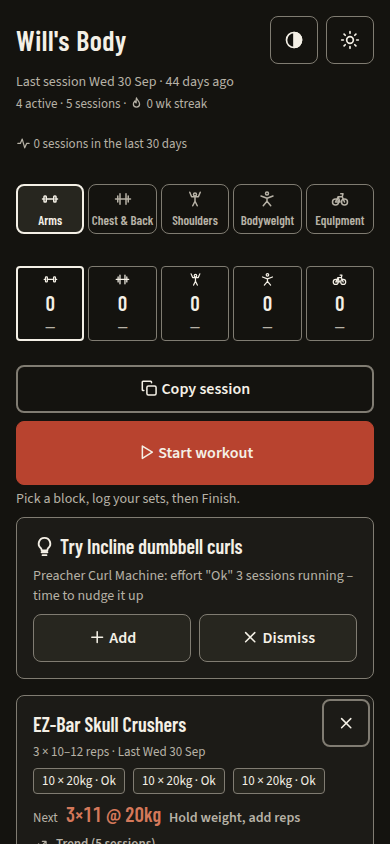
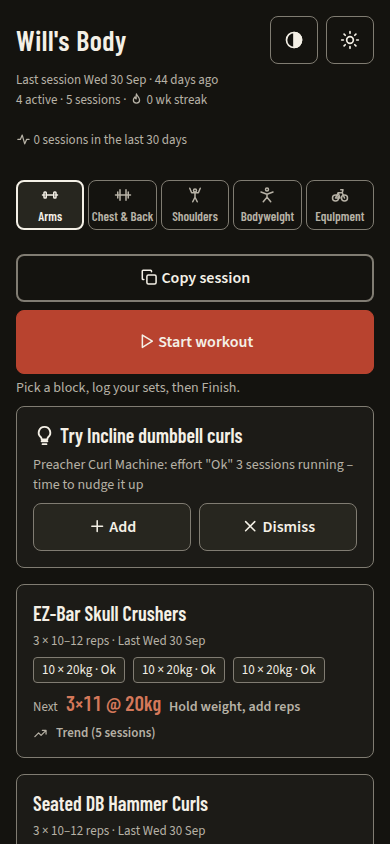
fix: pin the desktop rest timer and match the matte mocks
Keep the timer on screen at the bottom of the wide logger pane, and hide an empty week strip, the logging sets stepper, and deactivate controls that are not on the selected card.

diff --git a/styles.css b/styles.css
@@ -74,7 +74,7 @@ header{padding:calc(16px + env(safe-area-inset-top, 0px)) 16px 0}
 .brand{display:flex;align-items:center;justify-content:space-between;gap:16px;min-height:48px}
 h1{margin:0;font-size:28px;line-height:32px;letter-spacing:.02em;color:var(--txt)}
 .tools{display:flex;gap:8px;flex:none}
-.meta{margin:8px 0 0;color:var(--mut);font-size:14px;line-height:20px;font-weight:400}
+.meta,#weekline{margin:8px 0 0;color:var(--mut);font-size:13px;line-height:16px;font-weight:400}
 .subline{display:flex;flex-wrap:wrap;gap:8px;align-items:center;margin-top:4px;font-size:13px;line-height:16px}
 #streak{color:var(--mut);font-size:13px;line-height:16px}
 #stats{
@@ -129,7 +129,7 @@ button.danger{background:var(--danger);color:var(--on-acc);border:1px solid var(
 .card.ex.sel{border:2px solid var(--txt)}
 .exwrap{position:relative;margin:0 0 16px}
 .exwrap .deact{position:absolute;top:4px;right:4px;z-index:1}
-.card.ex .title{padding-right:48px}
+.exwrap.has-deact .card.ex .title{padding-right:48px}
 .mut{color:var(--mut);font-size:13px;line-height:16px;font-weight:400}
 .help{color:var(--mut);font-size:14px;line-height:20px;margin:4px 0 8px}
 .sugg .mut,.suggnote,.note14{font-size:14px;line-height:20px;color:var(--mut)}
@@ -197,7 +197,7 @@ button.danger{background:var(--danger);color:var(--on-acc);border:1px solid var(
 }
 .sethead span:nth-child(n+3){text-align:center}
 .setrow{min-height:56px;padding:4px 8px;border-radius:8px;border:2px solid transparent}
-.setrow.cur{background:var(--raised)}
+.setrow.cur{background:var(--raised);border:2px solid var(--txt)}
 .sn{font-size:20px;line-height:24px;text-align:center;color:var(--txt)}
 .prev{font-size:20px;line-height:24px;text-align:right;color:var(--mut);min-width:0}
 .setrow .cell{font-size:20px;line-height:24px;text-align:center;color:var(--txt)}
@@ -208,7 +208,7 @@ button.danger{background:var(--danger);color:var(--on-acc);border:1px solid var(
   font-size:20px;line-height:24px;-moz-appearance:textfield;appearance:textfield;
 }
 .setrow .step-in::-webkit-outer-spin-button,.setrow .step-in::-webkit-inner-spin-button{-webkit-appearance:none;margin:0}
-.setrow .step-in.cur{border:2px solid var(--txt)}
+.setrow .step-in.cur{border:2px solid var(--txt);background:var(--bg)}
 .pend{display:block;width:16px;height:2px;background:var(--mut);border-radius:1px;margin-inline:auto}
 .tick{
   width:48px;height:48px;min-width:48px;min-height:48px;padding:0;border-radius:8px;
@@ -274,7 +274,7 @@ details summary,.trend summary{min-height:48px;display:flex;align-items:center;c
 }
 .timer .count{font-size:44px;line-height:48px;color:var(--txt);min-width:2ch}
 .timer label{flex:1;min-width:0;font-size:13px;line-height:16px;font-weight:600;color:var(--mut)}
-.timer input[type=range]{width:100%;height:48px;margin:0}
+.timer input[type=range]{width:100%;height:16px;margin:0}
 .timer .adj{display:none}
 .timer .pin{min-width:48px}
 .timer.float{
@@ -319,7 +319,18 @@ input[type=date],input[type=file],input[type=text],input[type=number]{font-size:
 .libcard select{font-size:16px}
 .libcard select{min-height:48px}
 .lib-list .row button{flex:0 0 auto}
-input[type=range],input[type=checkbox]{accent-color:var(--acc)}
+input[type=checkbox]{accent-color:var(--acc)}
+#timer input[type=range]{
+  -webkit-appearance:none;appearance:none;accent-color:var(--mut);
+  width:100%;height:16px;margin:0;background:transparent;border:0;padding:0;
+}
+#timer input[type=range]::-webkit-slider-runnable-track{height:8px;background:var(--mut);border-radius:4px}
+#timer input[type=range]::-webkit-slider-thumb{
+  -webkit-appearance:none;appearance:none;width:16px;height:16px;margin-top:-4px;
+  background:var(--txt);border:0;border-radius:8px;
+}
+#timer input[type=range]::-moz-range-track{height:8px;background:var(--mut);border:0;border-radius:4px}
+#timer input[type=range]::-moz-range-thumb{width:16px;height:16px;background:var(--txt);border:0;border-radius:8px}
 
 .toasts{
   position:fixed;left:50%;transform:translateX(-50%);
@@ -376,11 +387,16 @@ body.logging main{padding-top:calc(16px + env(safe-area-inset-top, 0px))}
   body.wide nav{position:static;padding-top:16px}
   body.wide #pane{
     grid-column:2;grid-row:1 / span 6;align-self:start;position:sticky;top:24px;
-    display:flex;flex-direction:column;gap:16px;min-width:0;max-height:calc(100vh - 48px);overflow:auto;
-    background:var(--card);border:1px solid var(--line);border-radius:8px;padding:0 16px 16px;
+    display:flex;flex-direction:column;gap:0;min-width:0;
+    height:calc(100vh - 48px);max-height:calc(100vh - 48px);overflow:hidden;
+    background:var(--card);border:1px solid var(--line);border-radius:8px;padding:0;
   }
+  body.wide #pane .pane-scroll{flex:1;min-height:0;overflow:auto;padding:0 16px 16px}
   body.wide #pane .card{background:transparent}
-  body.wide #timer{position:static;border:0;border-top:1px solid var(--line);border-radius:0;padding:16px 0 0;margin-top:auto}
+  body.wide #timer{
+    position:static;flex:none;margin:0;border:0;border-top:1px solid var(--line);border-radius:0;
+    padding:16px;background:var(--card);
+  }
   body.wide #timer.float{
     position:fixed;right:calc(16px + env(safe-area-inset-right, 0px));
     bottom:calc(16px + env(safe-area-inset-bottom, 0px));

diff --git a/app.js b/app.js
@@ -170,7 +170,6 @@ function loggerInner(ex, T){
     ${flags.map(f=>`<div class="cue">${ic('alert')} ${esc(f.reason)}</div>`).join('')}
     ${rl?`<button type="button" class="ghost lastbtn" data-act="fill" data-ex="${esc(ex.id)}">${ic('undo')} Same as last time (${esc(fmtDate(rl.date))}): ${fmtPlan(rl,ex.unit)}</button>`:''}
     ${setTable(ex,d,last)}
-    ${stepper(ex.id,'targetSets','Sets',d.targetSets)}
     <div class="eff">${['Ok','Good','Tough'].map(e=>`<button type="button" class="${d.effort===e?'on':''}" aria-pressed="${d.effort===e}" data-act="eff" data-ex="${esc(ex.id)}" data-v="${e}">${e}</button>`).join('')}</div>
     <button type="button" class="primary" data-act="log" data-ex="${esc(ex.id)}">Log set ${Math.min(d.sets.length+1,99)} of ${esc(d.targetSets)}</button>
     <div class="sets">${fmtSets(d.sets,ex.unit)}${d.sets.length?`<button type="button" data-act="undo" data-ex="${esc(ex.id)}">${ic('undo')} Undo</button>`:''}</div>
@@ -186,7 +185,7 @@ function compactHTML(ex, T, selected){
   const t=Rules.trendSeries(ex,T.sessions), flags=Rules.detectPlateaus(ex,T.sessions);
   const range=ex.repMin&&ex.repMin!==ex.repMax?esc(ex.repMin)+'\u2013'+esc(ex.repMax):esc(ex.targetReps);
   const cue=flags[0]?`<div class="cue">${ic('alert')} ${esc(flags[0].reason)}</div>`:(t.dates.length>=2?`<div class="trendline">${ic('trend')} Trend (${t.dates.length} sessions)</div>`:'');
-  return `<div class="exwrap">
+  return `<div class="exwrap${selected?' has-deact':''}">
     <button type="button" class="card ex${selected?' sel':''}" data-act="openlog" data-ex="${esc(ex.id)}">
       <h3 class="title">${esc(ex.name)}</h3>
       <div class="mut">${esc(ex.targetSets)} × ${range} ${esc(U(ex.unit).reps.toLowerCase())} · Last ${last?esc(fmtDate(last.date)):'—'}</div>
@@ -194,7 +193,7 @@ function compactHTML(ex, T, selected){
       <div class="nextline"><span class="mut">Next</span><span class="plan">${fmtPlan(plan,ex.unit)}</span><span class="suggnote">${esc(plan.note||'')}</span></div>
       ${cue}
     </button>
-    <button type="button" class="ghost iconbtn deact" data-act="toggle" data-ex="${esc(ex.id)}" aria-label="Deactivate ${esc(ex.name)}" title="Deactivate">${ic('x')}</button>
+    ${selected?`<button type="button" class="ghost iconbtn deact" data-act="toggle" data-ex="${esc(ex.id)}" aria-label="Deactivate ${esc(ex.name)}" title="Deactivate">${ic('x')}</button>`:''}
   </div>`;
 }
 function notesField(){
@@ -218,7 +217,7 @@ function paneHTML(T, openId){
   let h=`<div class="sesshead"><div class="sesshead-row"><h2>${esc(label)}</h2>${nDraft?`<button type="button" class="iconbtn" data-act="discard" aria-label="Discard workout" title="Discard workout">${ic('x')}</button><button type="button" class="primary slim" data-act="complete">Finish</button>`:''}</div><p class="meta">${nDraft?'In progress':'Ready'} · ${idx} of ${acts.length}</p></div>`;
   const fold=foldState(ex, T);
   h+=fold.allDone&&!unfolded.has(fold.fk)?foldedBtn(ex, fold):`<div class="card">${loggerInner(ex,T)}</div>`;
-  return h+notesField();
+  return `<div class="pane-scroll">${h}${notesField()}</div>`;
 }
 function render(){
   const wide=matchMedia('(min-width:1024px)').matches;
@@ -245,7 +244,8 @@ function render(){
   if(mobileLog) h=loggingHTML(T, openId);
   else {
     if(loadNotice) h+=`<div class="card notice"><h3>${ic('alert')} ${loadNotice.kind==='corrupt'?"Saved data couldn't be read":'Data upgraded from an older format'}</h3><div class="help">${loadNotice.kind==='corrupt'?'Nothing was deleted: the unreadable copy was kept on this phone. Export it and send it over so it can be recovered.':'A copy of the original was kept on this phone before upgrading.'}</div><div class="row"><button type="button" class="ghost" data-act="rawexport">${ic('download')} Export raw copy</button><button type="button" class="ghost" data-act="noticeok">Dismiss</button></div></div>`;
-    h+=`<div class="strip" aria-label="This week">${Rules.weekStrip(S.tabs,TABS.map(t=>t[0]),today()).map(c=>{const l=TABS.find(t=>t[0]===c.tab)[1]; const n=c.sessions|0;
+    const week=Rules.weekStrip(S.tabs,TABS.map(t=>t[0]),today());
+    if(week.some(c=>c.sessions>0)) h+=`<div class="strip" aria-label="This week">${week.map(c=>{const l=TABS.find(t=>t[0]===c.tab)[1]; const n=c.sessions|0;
       const detail=n?(c.volume?Math.round(c.volume)+' kg':c.minutes?c.minutes+' min':'done'):'\u2014';
       return `<button type="button" data-tab="${c.tab}" aria-label="${esc(l)}, ${n} ${n===1?'session':'sessions'} this week" class="cell lvl${Math.min(3,n)}${c.tab===cur?' cur':''}">${ic(ICONS[c.tab])}<b>${n}</b><small>${esc(detail)}</small></button>`;
     }).join('')}</div>`;
